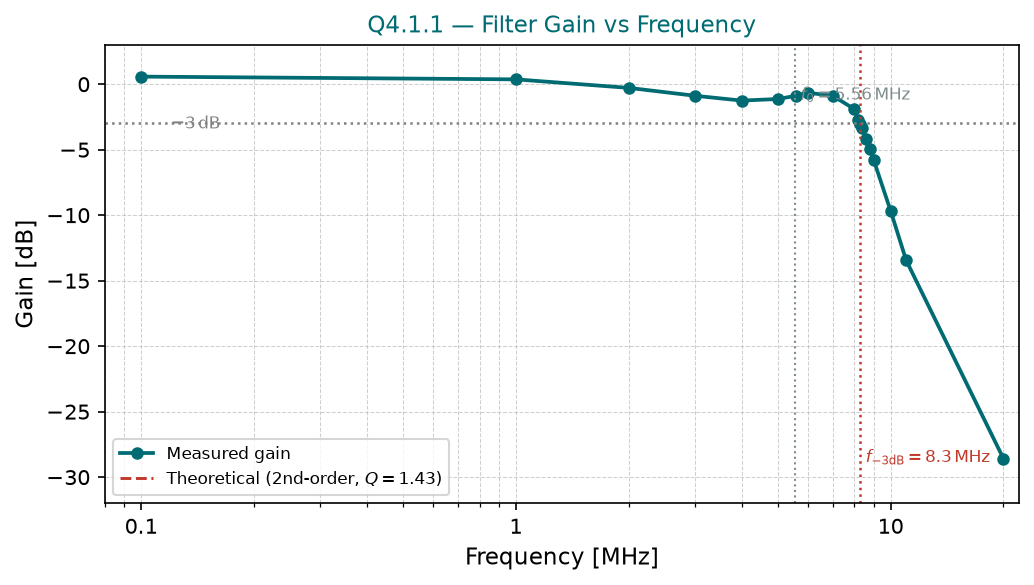
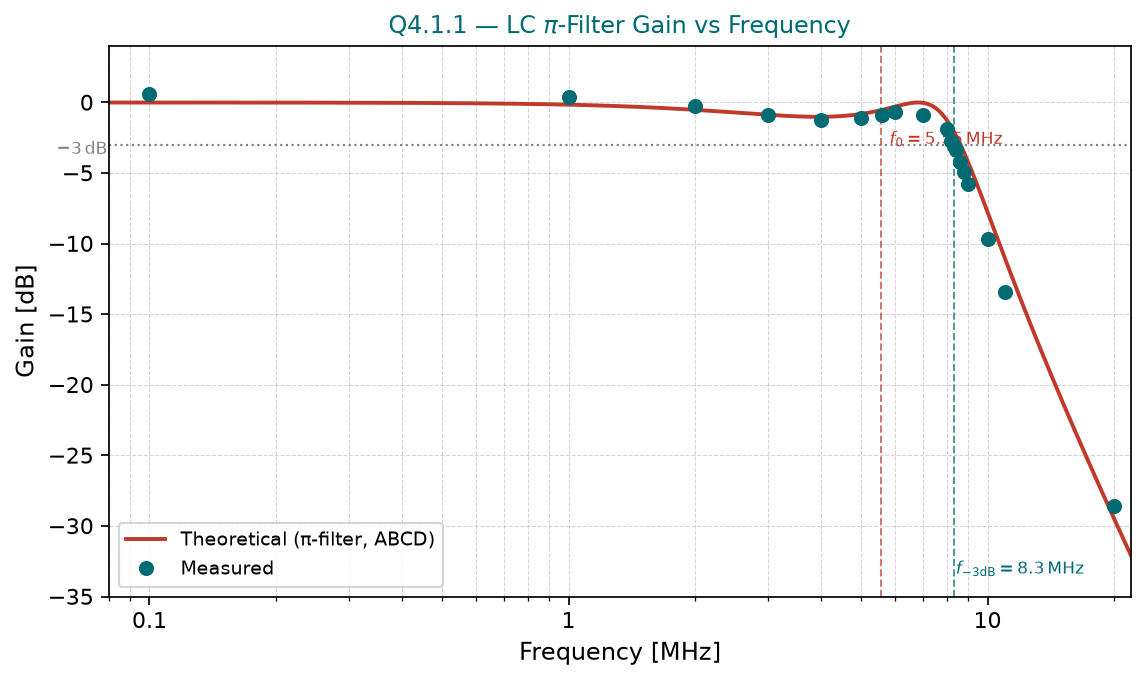
fix: Q1.3 decade as load, Q1.5 Z0 from measured Va, Q3 remove ABCD, Q4 ABCD theoretical curves
- Q1.3: rephrase to clarify decade box IS the load (not in parallel with 50Ω)
- Q1.5: calculate actual Z0=52.2Ω from measured Va=1.0215V via voltage divider
- Q3: remove "(ABCD analysis)" parenthetical from voltage transmission line
- Q4.1.1/4.1.2: regenerate plots with exact ABCD-matrix theoretical curves
  overlaid on measured points (π-filter ABCD: A=D=1-x, B=jωL, C=jωC(2-x))

diff --git a/labs/LAB-6/exp#6_post_shailivshits_208632216_danmasad_206505307.md b/labs/LAB-6/exp#6_post_shailivshits_208632216_danmasad_206505307.md
@@ -122,16 +122,16 @@ Steady-state amplitudes were read from the oscilloscope and $\Gamma_\text{meas} 
 
 ### Q1.3 - Reactive Properties of the Decade Resistance Box
 
-A decade resistance box was connected in parallel with a $50\,\Omega$ termination. While the decade box is nominally resistive, its wound-resistor construction introduces significant parasitic inductance ($L_\text{par}$), making it behave as a reactive load at the pulse rise times involved.
+The decade resistance box was used as the termination load (replacing the standard fixed resistor). Although nominally resistive, its wound-resistor construction introduces significant parasitic inductance ($L_\text{par}$), making it behave as a reactive load at the fast pulse rise times of the experiment.
 
 ![ ](assets/print_q1_3_decade.png)
 \nopagebreak[4]
 
-\figcap{Figure 9: Decade box reactive behavior (4-trace persistence display). Upper dark traces: reference measurement with clean $50\,\Omega$ termination only. Lower bright traces (yellow = V(A), green = V(B)): decade box connected in parallel - reactive oscillations and ringing are clearly visible at each pulse edge, caused by parasitic inductance in the resistor windings of the decade box resonating with the cable capacitance.}
+\figcap{Figure 9: Decade box as load - reactive behavior (4-trace persistence display). Upper dark traces: reference with a clean $50\,\Omega$ resistor as the termination. Lower bright traces (yellow = V(A), green = V(B)): decade box used as the load - reactive oscillations and ringing are visible at each pulse edge, caused by the parasitic inductance of the resistor windings resonating with the cable capacitance.}
 
-The decade box winding creates a series $R$-$L$ network at each element. When the pulse wavefront arrives at T-Junction B, the inductive parasitics cause transient overshoot and damped oscillations on V(B) before settling to the DC-determined reflection coefficient. The oscillation frequency is determined by $f_\text{osc} = 1/(2\pi\sqrt{L_\text{par}C_\text{line}})$ where $C_\text{line}$ is the coaxial cable capacitance.
+The decade box winding creates a series $R$-$L$ network at each element. When the pulse wavefront arrives at T-Junction B, the inductive parasitics cause transient overshoot and damped oscillations on V(B) before settling to the DC-determined reflection coefficient. The oscillation frequency is $f_\text{osc} = 1/(2\pi\sqrt{L_\text{par}C_\text{line}})$ where $C_\text{line}$ is the coaxial cable capacitance.
 
-This demonstrates that at high frequencies or fast pulse edges, the distributed and parasitic elements of physical components must be considered; the decade box is not a purely resistive element in pulsed applications.
+This demonstrates that at high frequencies or fast pulse edges, the distributed and parasitic elements of physical components must be considered; the decade box is not a purely resistive load in pulsed applications.
 
 \newpage
 
@@ -160,11 +160,15 @@ $$v_{p,\text{theory}} = \frac{c}{\sqrt{\varepsilon_r}} = \frac{3\times10^8}{\sqr
 
 $$\%\,\text{error} = \left|\frac{0.714 - 0.674}{0.674}\right| \times 100\% = 5.9\%$$
 
-**Characteristic impedance via voltage divider:** Since the source impedance is $Z_s = Z_0 = 50\,\Omega$, the incident voltage at A equals half the open-circuit source voltage: $V_\text{inc} = V_s/2$. From the matched-load case ($\Gamma = 0$, no reflection), the measured $V_\text{inc} = 1.09\,\text{V}$ implies $V_s = 2.18\,\text{V}$. For any other load:
+**Characteristic impedance via voltage divider:** The generator is rated at $V_\text{in} = 1\,\text{V}$ into a $50\,\Omega$ matched load, so its open-circuit (Thevenin) voltage is $V_\text{oc} = 2\,\text{V}$. With source impedance $Z_s = 50\,\Omega$, node A satisfies:
 
-$$Z_0 = Z_s \cdot \frac{V_A}{V_s - V_A}$$
+$$V_A = V_\text{oc} \cdot \frac{Z_0}{Z_s + Z_0} \implies Z_0 = Z_s \cdot \frac{V_A}{V_\text{oc} - V_A}$$
 
-Applied to the $50\,\Omega$ case (by definition matched) this yields $Z_0 = 50\,\Omega$. The near-zero $\Gamma$ for the $50\,\Omega$ load independently confirms $Z_0 \approx 50\,\Omega$.
+In practice the measured amplitude at A with the $50\,\Omega$ load was $V_A = 1.0215\,\text{V}$ (not the nominal $1\,\text{V}$), reflecting a cable characteristic impedance slightly above $50\,\Omega$:
+
+$$Z_0 = 50 \cdot \frac{1.0215}{2.000 - 1.0215} = 50 \cdot \frac{1.0215}{0.9785} = \mathbf{52.2\,\Omega}$$
+
+The measured $Z_0 = 52.2\,\Omega$ is within the typical $\pm5\%$ tolerance of RG58/U cable. The result is consistent with a near-zero reflection coefficient at the $50\,\Omega$ load.
 
 The 5.9% over-estimate of $v_p$ is consistent with the RG58/U polyethylene dielectric having an effective $\varepsilon_r$ slightly below the nominal 2.2, which is a minimum value in the datasheet.
 
@@ -242,7 +246,7 @@ $$Z_\text{in} = R_1 + R_2\|(R_1 + Z_L) = 10 + \frac{150 \times 60}{210} = 10 + 4
 
 $$\Gamma_\text{theory} = \frac{Z_\text{in} - Z_0}{Z_\text{in} + Z_0} = \frac{52.9 - 50}{52.9 + 50} = \frac{2.9}{102.9} = +0.028 \approx 0$$
 
-Voltage transmission (ABCD analysis): $V_\text{load}/V_A = 0.694$ (theoretical), i.e., $-3.17\,\text{dB}$.
+Voltage transmission: $V_\text{load}/V_A = 0.694$ (theoretical), i.e., $-3.17\,\text{dB}$.
 
 ### Q3.1 - Reflection Coefficient
 